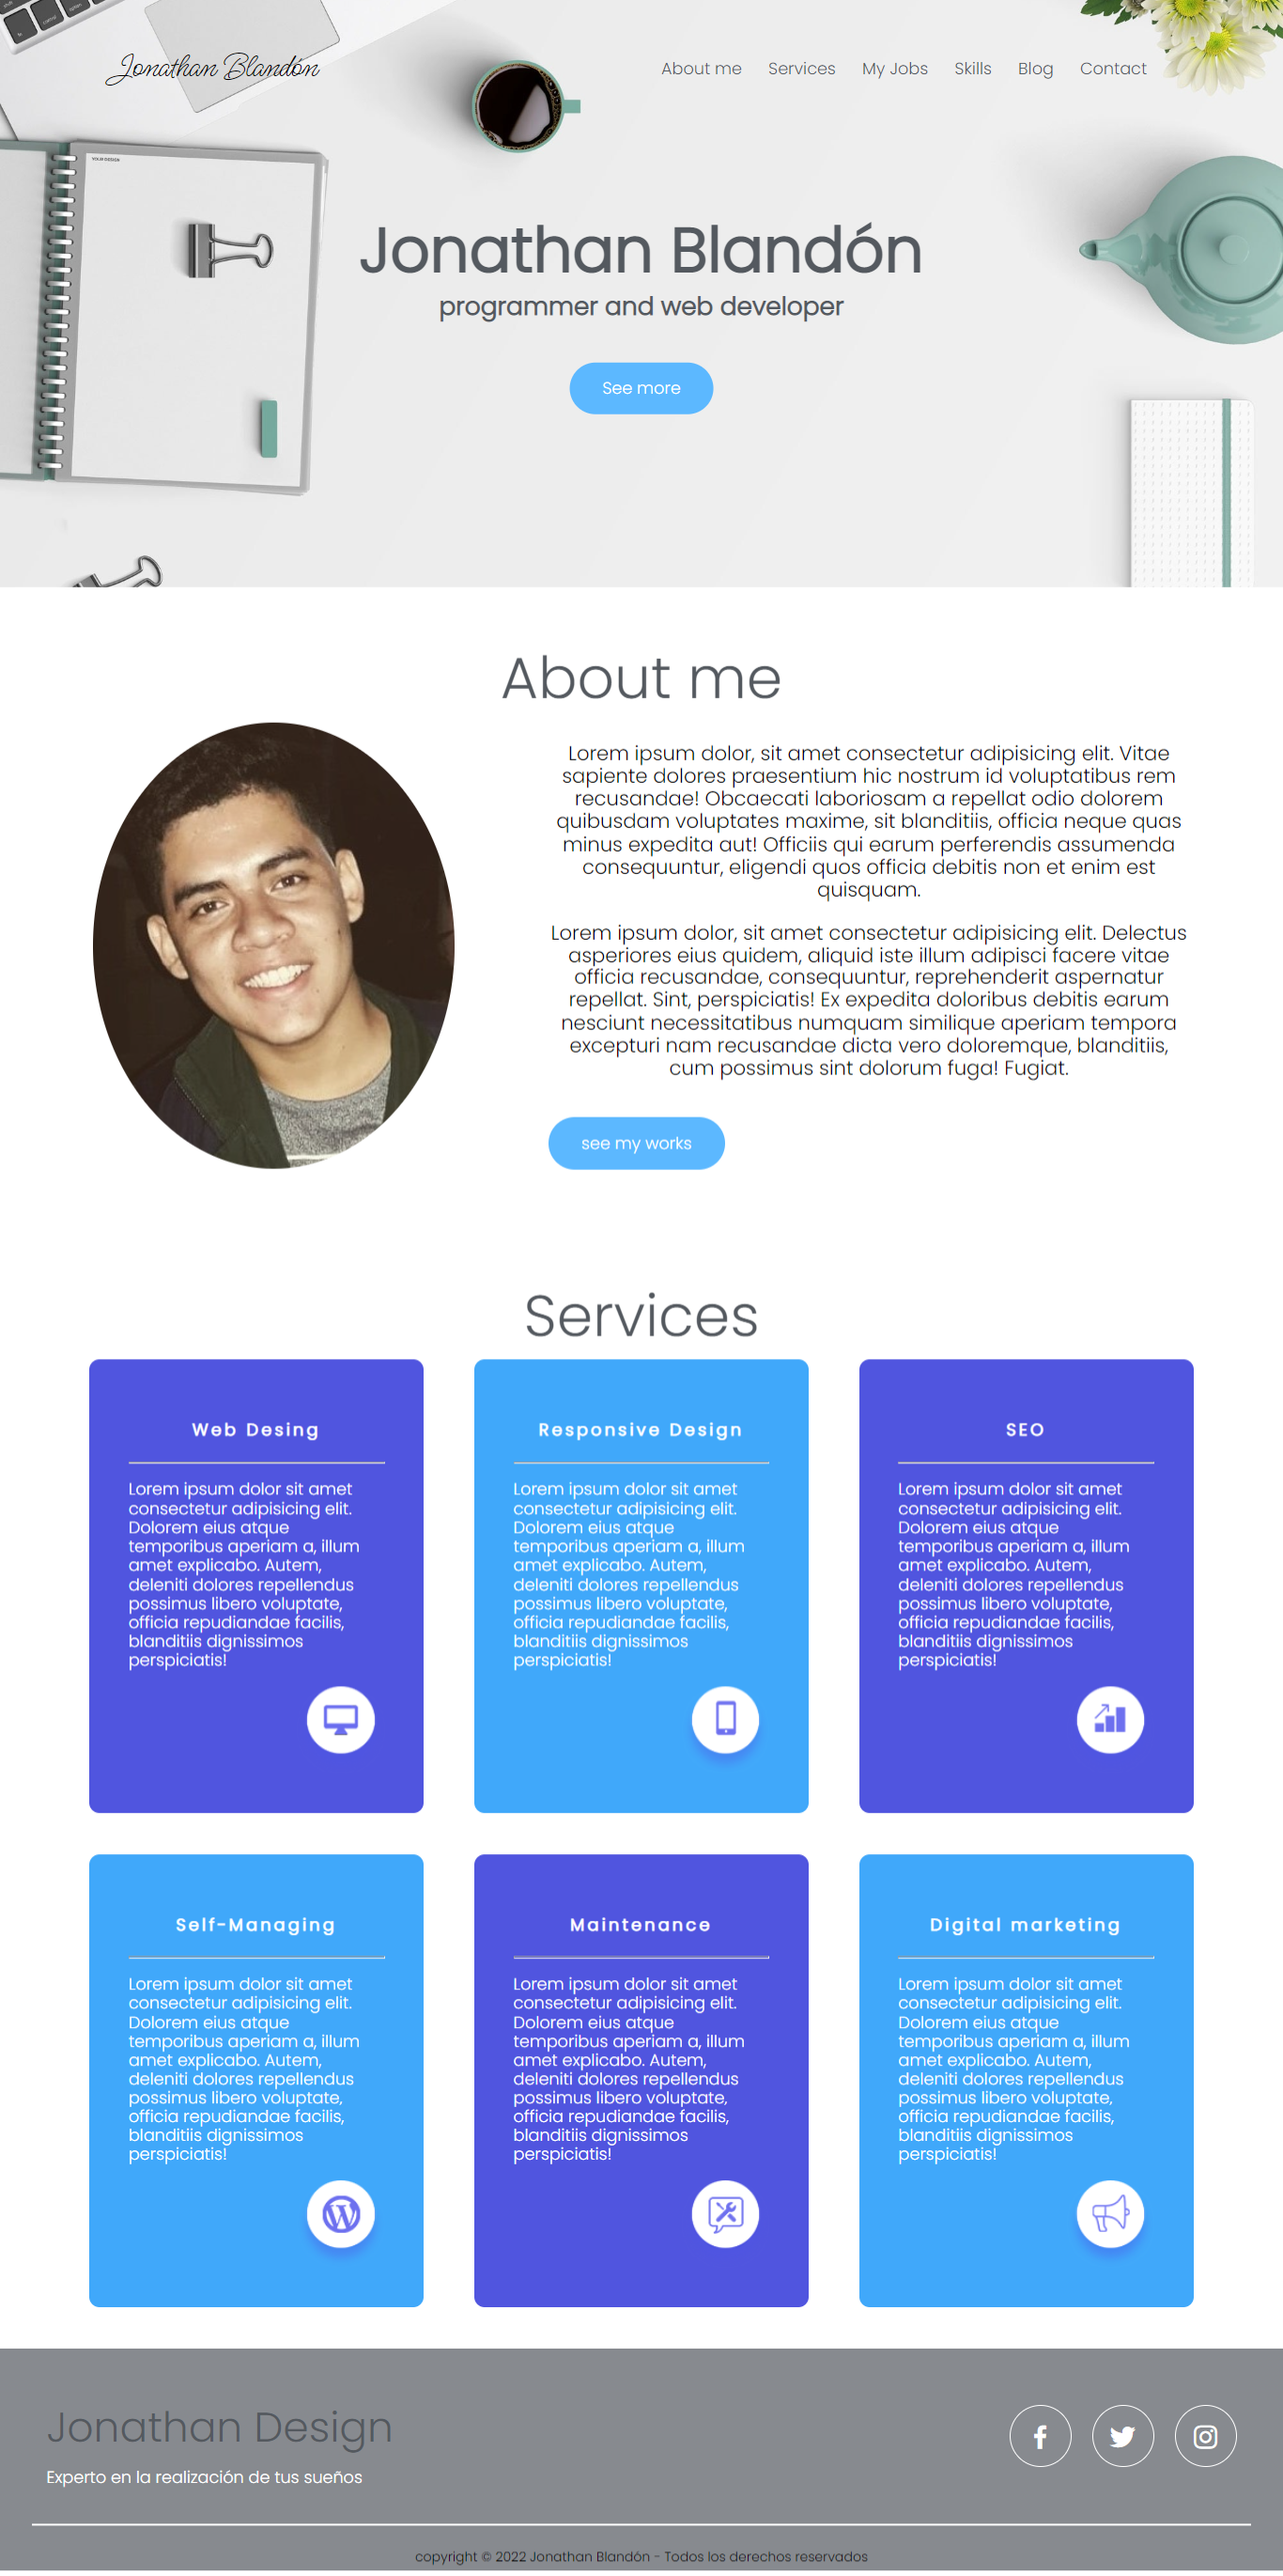
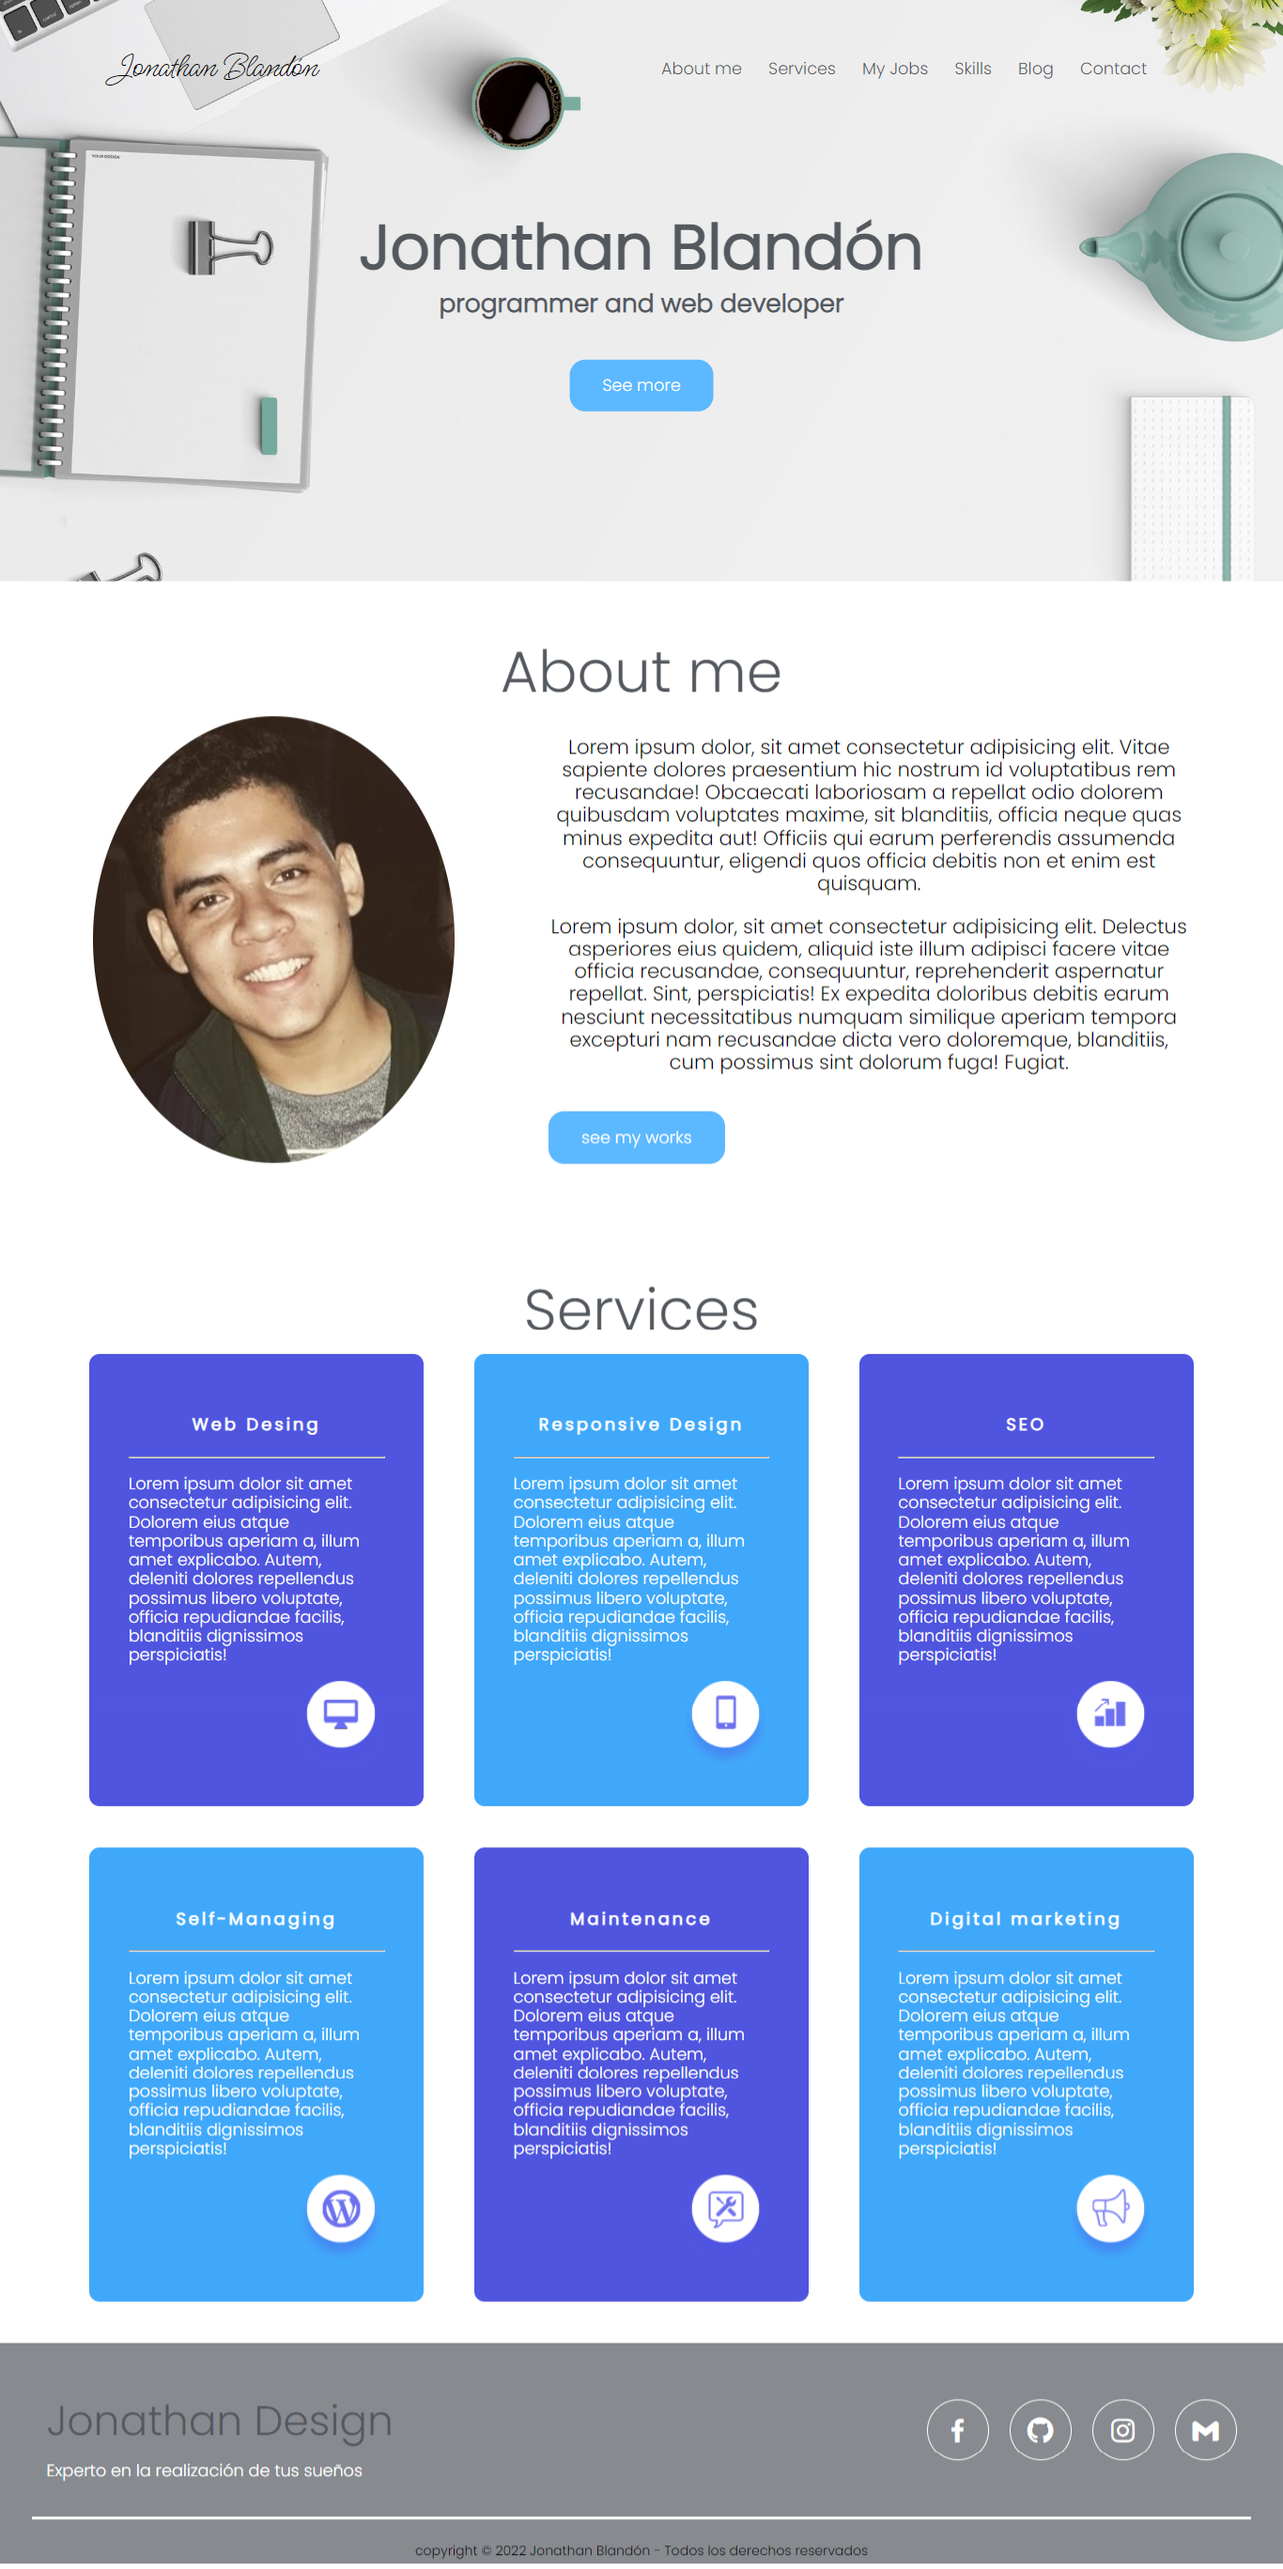
add link github, gmail and transform scale. ADD image preview

diff --git a/assets/Style/styles.css b/assets/Style/styles.css
@@ -50,6 +50,7 @@
 .header-list-item{
     list-style: none;
     margin-right: 1.6em;
+    transition: all .2s;
 }
 
 .link{
@@ -101,6 +102,7 @@
 .botton-main:hover,
 .botton-aboutme:hover{
     background-color: #40a8fa;
+    transform: scale(1.2);
 }
 
 .botton-main:active,
@@ -246,14 +248,24 @@
     color: #3b5998;
 }
 
-.social-media-icon.twitter:hover{
+.social-media-icon.github:hover{
     background: #fff;
-    color:  #00acee;
+    color:  #171515;
 }
 
 .social-media-icon.instagram:hover{
     background: #fff;
     color: #bc2a8d;
+}
+
+.social-media-icon.gmail:hover{
+    background: #fff;
+    color: #BB001B;
+}
+
+.header-list-item:hover,
+.social-media-icon:hover{
+    transform: scale(1.2);
 }
 
 .social-media-icon:active{

diff --git a/index.html b/index.html
@@ -112,11 +112,14 @@
                 <a href="./" class="social-media-icon face"> 
                     <i class='bx bxl-facebook'></i>
                 </a>
-                <a href="./" class="social-media-icon twitter">
-                    <i class='bx bxl-twitter'></i>
+                <a href="./" class="social-media-icon github">
+                    <i class='bx bxl-github'></i>
                 </a>
                 <a href="./" class="social-media-icon instagram">
                     <i class='bx bxl-instagram'></i>
+                </a>
+                <a href="./" class="social-media-icon gmail">
+                    <i class='bx bxl-gmail'></i>
                 </a>
             </div>
         </div>
